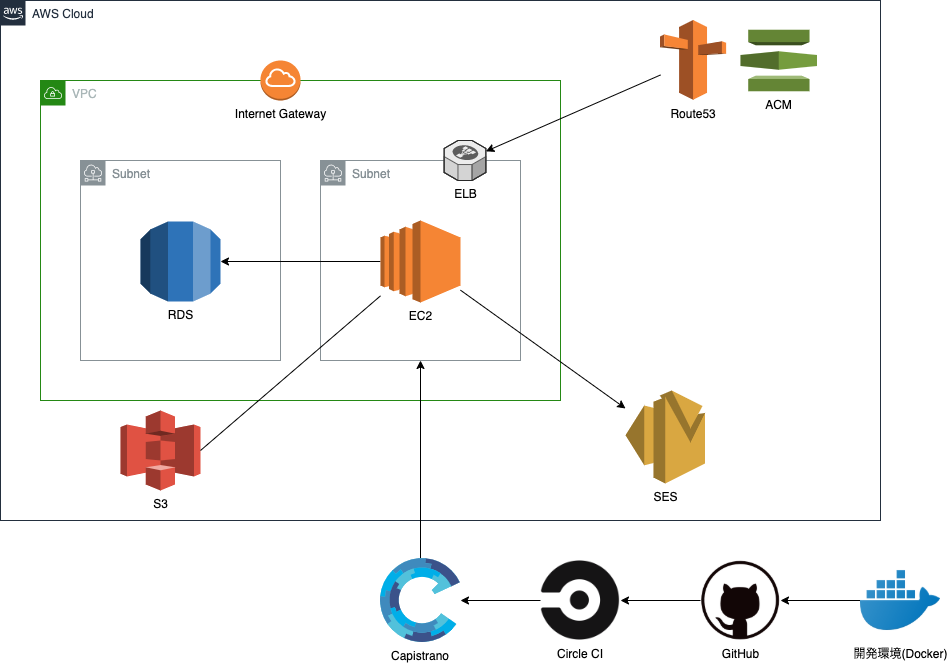
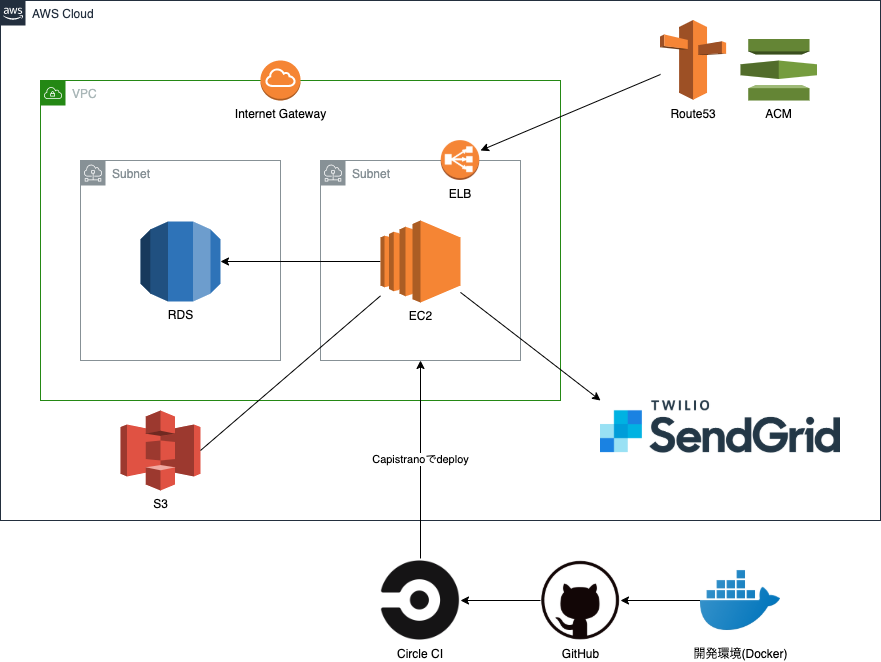
mailサービスをsendgridに変更

diff --git a/config/application.rb b/config/application.rb
@@ -23,23 +23,23 @@ module Myapp
       g.fixture_replacement :factory_bot, dir: "spec/factories"
     end
 
-    if Rails.application.credentials.ses_smtp.present?
-      user_mame = Rails.application.credentials.ses_smtp[:user_name]
-      password = Rails.application.credentials.ses_smtp[:password]
+    if Rails.application.credentials.sendgrid_smtp.present?
+      user_mame = Rails.application.credentials.sendgrid_smtp[:user_name]
+      password = Rails.application.credentials.sendgrid_smtp[:password]
     else
       user_name = 'user_name'
       password = 'password'
     end
 
-    config.action_mailer.delivery_method = :ses
+    config.action_mailer.delivery_method = :smtp
     config.action_mailer.smtp_settings = {
-        enable_starttls_auto: true,
-        address: "email-smtp.us-west-2.amazonaws.com",
-        port: 587,
-        user_name: user_name,
-        domain: 'ticket-rec.com',
-        password: password,
-        authentication: "login"
+      user_name: 'apikey',
+      password: password,
+      domain: 'www.ticket-rec.com',
+      address: 'smtp.sendgrid.net',
+      port: 587,
+      authentication: :plain,
+      enable_starttls_auto: true
     }
   end
 end

diff --git a/config/deploy/production.rb b/config/deploy/production.rb
@@ -1,4 +1,3 @@
 server '54.95.141.117', user: 'hiroki', roles: %w(app db web)
 set :ssh_options, keys: "#{ENV['PRODUCTION_SSH_KEY']}"
 # set :ssh_options, keys: '~/.ssh/ticket-rec_key_rsa'
-# puts "ENV['PRODUCTION_SSH_KEY'] is #{ENV['PRODUCTION_SSH_KEY']} "

diff --git a/README.md b/README.md
@@ -23,7 +23,7 @@
   <li>音楽アーティストの画像・試聴トラックの取得（Spotify API）</li>
   <li>過去に訪れた都道府県を地図で表示（Google Chart）</li>
   <li>ユーザーにお勧めアーティストを提案</li>
-  <li>投稿した予定の前日に詳細・天気予報を自動でメール送信（Whenever・SES）</li>
+  <li>投稿した予定の前日に詳細・天気予報を自動でメール送信（Whenever・SendGrid）</li>
   <li>モーダルウィンドウ（投稿フォーム・Google Chart）</li>
   <li>Ajax（いいね機能、フォロー機能、モーダルウィンドウ）</li>
   <li>ページネーション機能（Kaminari）</li>
@@ -56,7 +56,7 @@
   <li>リンター（Rubocop Airbnb）</li>
   <li>GitHub（GitHub Flowでの開発）</li>
   <li>Javascript / JQuery / Ajax</li>
-  <li>AWS SESでのメールサービス</li>
+  <li>SendGridでのメールサービス</li>
   <li>Web API（Open Weather Map, Spotify）</li>
   <li>独自ドメインでのSSL化</li>
 </ul>
